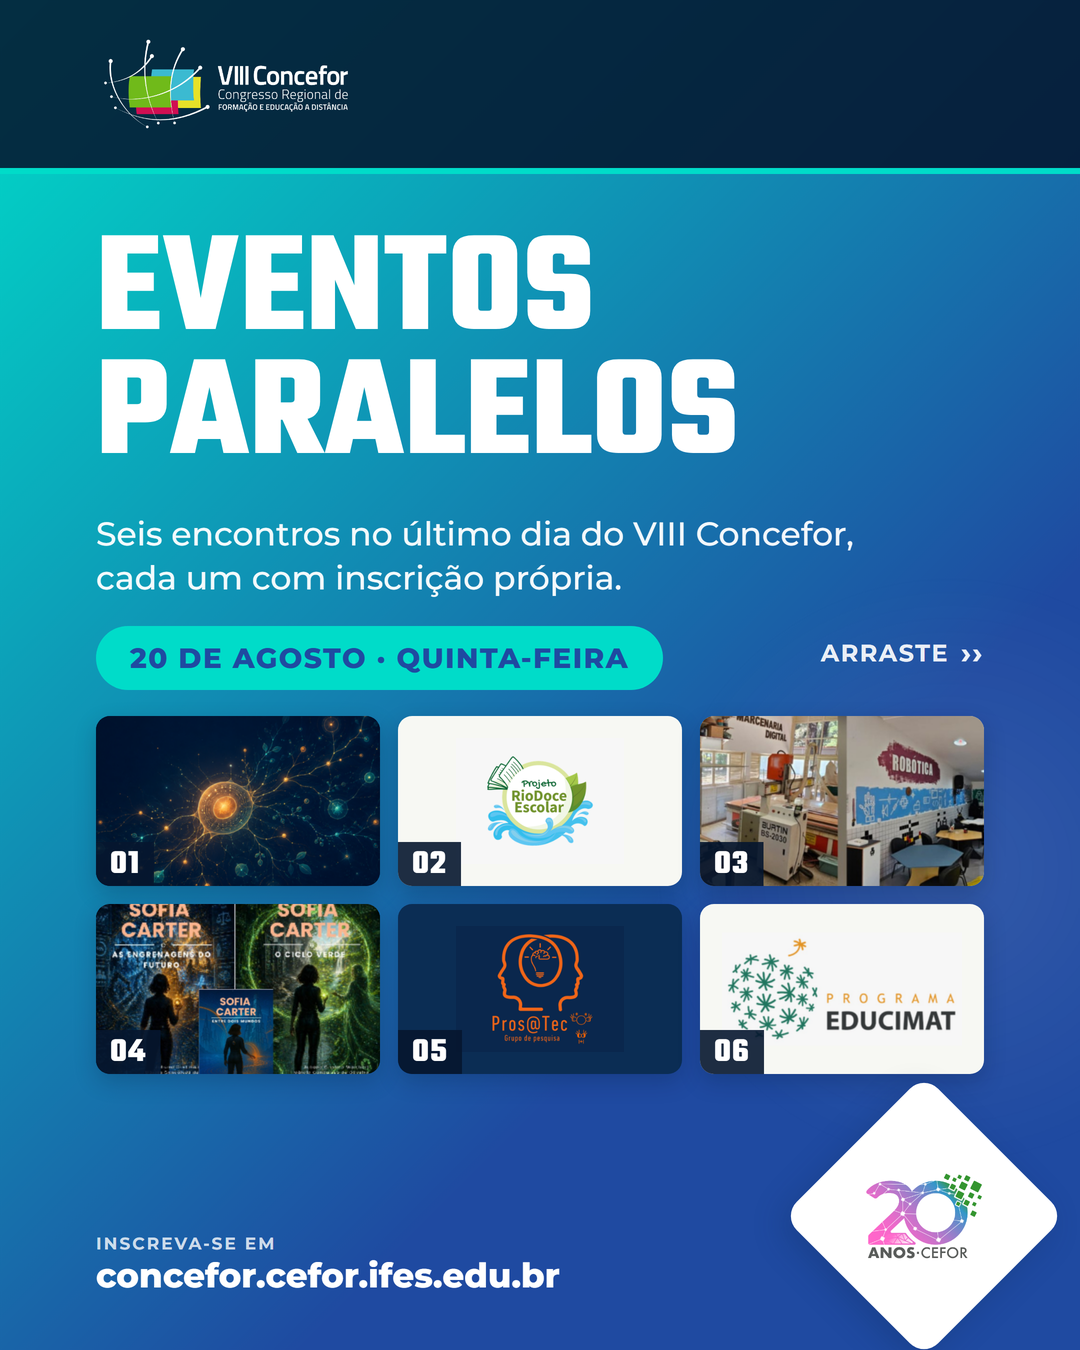
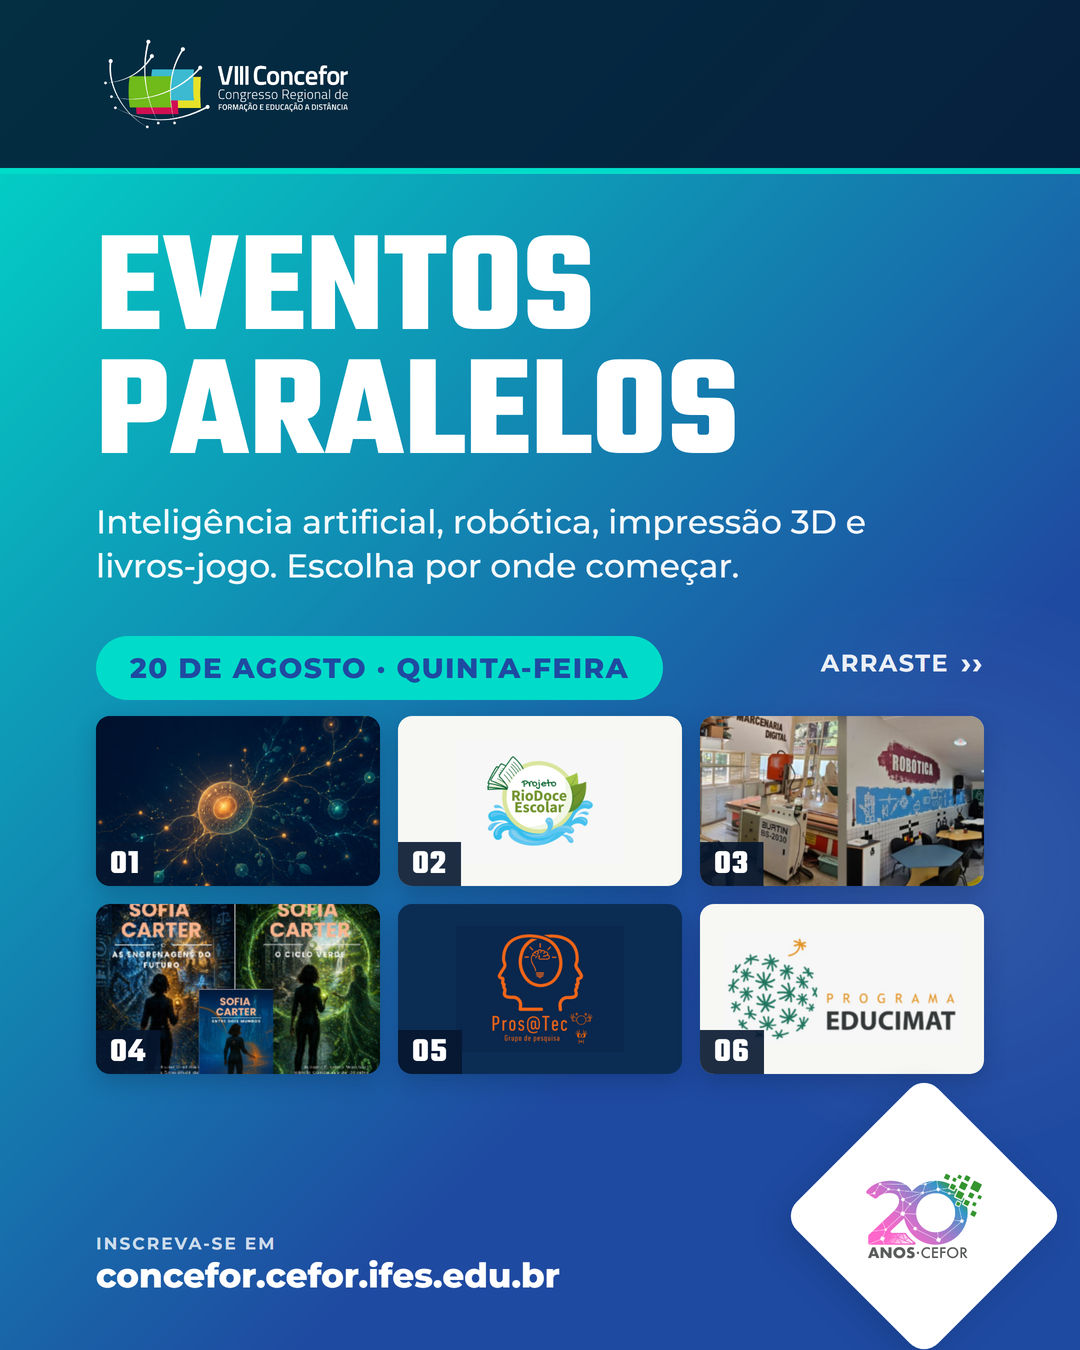
copy(eventos-paralelos): legenda e capa falam do que acontece, nao do formato
A capa dizia "seis encontros [...] cada um com inscricao propria" e a legenda
abria do mesmo jeito, seguida de uma lista 01 a 06. Os dois falavam de formato
e de processo, que nao interessam a quem le, e a lista tinha cara de sumario.

Capa: "Inteligencia artificial, robotica, impressao 3D e livros-jogo. Escolha
por onde comecar." A chamada ganhou folga de uma linha extra no layout, porque
a primeira tentativa quebrou em tres linhas e a ultima foi parar debaixo do
badge da data.

Legenda: abre com "no dia 20 o Cefor funciona em seis lugares ao mesmo tempo"
(literal: Laboratorio, Auditorio, Salas 1, 2 e 4, e Patio) e apresenta cada
encontro pela coisa concreta que acontece nele. A inscricao virou o que e, um
detalhe do fim.

Changed region(s): [[0.0917, 0.3733, 0.7944, 0.5289], [0.7639, 0.4667, 0.9167, 0.4978]]

diff --git a/comunicacao/producao/02-pre-evento/eventos-paralelos/_build_v1-com-imagem/capa.html b/comunicacao/producao/02-pre-evento/eventos-paralelos/_build_v1-com-imagem/capa.html
@@ -25,10 +25,12 @@ html,body{width:1080px;height:1350px;overflow:hidden;background:#000;}
   text-transform:uppercase;letter-spacing:.002em;}
 .titulo b{color:#06213f;font-weight:700;}
 
-.chamada{position:absolute;left:96px;top:512px;width:790px;
+/* 500 a 636 = 136px, ou seja, tres linhas de folga para uma chamada de duas.
+   Sem essa margem, uma linha a mais joga o texto por baixo do badge da data. */
+.chamada{position:absolute;left:96px;top:500px;width:790px;
   color:rgba(255,255,255,.95);font-weight:500;font-size:33px;line-height:1.34;}
 
-.data{position:absolute;left:96px;top:626px;padding:15px 34px;border-radius:999px;
+.data{position:absolute;left:96px;top:636px;padding:15px 34px;border-radius:999px;
   background:var(--turquesa);color:var(--azul);font-weight:800;font-size:28px;
   text-transform:uppercase;letter-spacing:.05em;}
 
@@ -51,7 +53,7 @@ html,body{width:1080px;height:1350px;overflow:hidden;background:#000;}
 /* na LINHA DA DATA, nao no rodape: o selo em losango tem 200x200 gpirado 45
    graus, entao seu bounding box invade a faixa de baixo a direita e cortava o
    fim da frase. Aqui ele fica livre e ainda equilibra o badge da esquerda. */
-.arraste{position:absolute;right:96px;top:638px;font-weight:700;font-size:24px;
+.arraste{position:absolute;right:96px;top:648px;font-weight:700;font-size:24px;
   letter-spacing:.06em;text-transform:uppercase;color:rgba(255,255,255,.92);
   display:flex;align-items:center;gap:12px;}
 .arraste span{font-size:30px;line-height:1;}
@@ -75,7 +77,7 @@ html,body{width:1080px;height:1350px;overflow:hidden;background:#000;}
   <div class="brand-rule"></div>
 
   <div class="titulo">Eventos<br>paralelos</div>
-  <div class="chamada">Seis encontros no último dia do VIII Concefor, cada um com inscrição própria.</div>
+  <div class="chamada">Inteligência artificial, robótica, impressão 3D e livros-jogo. Escolha por onde começar.</div>
   <div class="data">20 de agosto &middot; quinta-feira</div>
 
   <div class="grade"><div class="mini " style="--mini-bg:#071a35;--mini-fit:cover"><img src="../_build_v4/assets/events/01-ia-alem-do-chat.png" alt="IA além do chat: da célula ao organismo baseado em IA"><b>01</b></div><div class="mini is-contain" style="--mini-bg:#f7f8f3;--mini-fit:contain"><img src="../_build_v4/assets/events/02-ciencia-delas.png" alt="“Ciência delas” no Projeto Rio Doce Escolar"><b>02</b></div><div class="mini " style="--mini-bg:#d9e6e2;--mini-fit:cover"><img src="../_build_v4/assets/events/03-escola-de-inovacao.png" alt="Escola de Inovação: 6º ano de popularização de novas tecnologias digitais"><b>03</b></div><div class="mini " style="--mini-bg:#071a35;--mini-fit:cover"><img src="../_build_v4/assets/events/04-entre-dois-mundos.png" alt="Entre Dois Mundos: uma aventura para aprender IA"><b>04</b></div><div class="mini is-contain" style="--mini-bg:#0b2d54;--mini-fit:contain"><img src="../_build_v4/assets/events/05-workshop-prostec.png" alt="Workshop Pros@tec: Desafios da Educação em Computação e da Informática na Educação"><b>05</b></div><div class="mini is-contain" style="--mini-bg:#f7f8f3;--mini-fit:contain"><img src="assets/06-educimat-trim.png" alt="EDUCIMAT: 15 anos elaborando produtos, tecendo saberes e modificando vidas"><b>06</b></div></div>

diff --git a/comunicacao/kit-eventos-paralelos/index.html b/comunicacao/kit-eventos-paralelos/index.html
@@ -146,23 +146,22 @@
       </div>
       <img class="thumb" src="../producao/02-pre-evento/eventos-paralelos/cards/proposta-v1-com-imagem/2026-08-10_pre_capa-carrossel-eventos-paralelos.png" alt="Capa do carrossel">
     </div>
-    <pre class="txt" id="t-ig">Seis encontros acontecem ao mesmo tempo no dia 20 de agosto, o último dia do VIII Concefor. Cada um tem inscrição própria, e dá para escolher pelo que chega mais perto do seu trabalho.
+    <pre class="txt" id="t-ig">No dia 20 de agosto o Cefor funciona em seis lugares ao mesmo tempo, e você escolhe onde estar.
 
-01 IA além do chat. Oficina prática: você monta um espaço de trabalho que guarda o seu contexto e produz com você. Abrimos com o caso de um professor que levava uma semana para transformar aulas antigas e passou a levar meia hora. São 20 vagas.
+Tem oficina para montar do zero um espaço de trabalho com IA que guarda o seu contexto. Começamos com o caso de um professor que levava uma semana para transformar aulas antigas em aulas interativas e passou a levar meia hora.
 
-02 "Ciência delas" no Projeto Rio Doce Escolar. Gestoras, pesquisadoras, professoras e agentes comunitárias da bacia do Rio Doce contam a ciência que fazem na Rede de Educadores Ambientais.
+Tem impressão 3D, corte a laser, robótica e realidade virtual, com visita às estações da Escola de Inovação.
 
-03 Escola de Inovação. Seis anos levando impressão 3D, corte a laser, robótica e realidade virtual para a educação de Vitória, com visita às estações onde tudo acontece.
+Tem livro-jogo para ensinar inteligência artificial na educação básica, com a coleção Sofia Carter.
 
-04 Entre Dois Mundos. Alfabetização em Inteligência Artificial na educação básica, com a coleção de livros-jogo Sofia Carter e abordagem STEAM.
+Tem mesa com as gestoras, pesquisadoras, professoras e agentes comunitárias que fazem ciência na bacia do Rio Doce.
 
-05 Workshop Pros@tec. Pesquisadores apresentam respostas aos desafios da Educação em Computação apontados pela SBC, em rodas de conversa nos dois turnos.
+Tem roda de conversa sobre os desafios da Educação em Computação apontados pela SBC.
 
-06 Educimat. Os 15 anos do mestrado e doutorado profissional em Educação em Ciências e Matemática do Ifes, comemorados dentro do Concefor.
+E tem os 15 anos do Educimat, comemorados no pátio.
 
-Arraste para ver o horário, o local e a coordenação de cada encontro.
+Arraste para ver horário, local e coordenação de cada um. Os formulários estão reunidos em concefor.cefor.ifes.edu.br/eventos-paralelos
 
-Os seis formulários estão reunidos em concefor.cefor.ifes.edu.br/eventos-paralelos
 Inscrição no Concefor até 15/08, o principal congresso do Espírito Santo sobre Tecnologia e Educação a Distância: concefor.cefor.ifes.edu.br/inscricoes
 
 #Concefor #VIIIConcefor #Cefor20Anos #Cefor #Ifes #EaD</pre>

diff --git a/comunicacao/producao/02-pre-evento/eventos-paralelos/_build_v1-com-imagem/build_capa.py b/comunicacao/producao/02-pre-evento/eventos-paralelos/_build_v1-com-imagem/build_capa.py
@@ -30,8 +30,11 @@ BRAND_H = _base["BRAND_H"]
 LOGO_H = _base["LOGO_H"]
 
 TITULO = "Eventos<br>paralelos"
-CHAMADA = ("Seis encontros no último dia do VIII Concefor, "
-           "cada um com inscrição própria.")
+# A chamada anterior ("seis encontros [...] cada um com inscricao propria")
+# falava de formato e de processo, que nao interessam a quem le. Esta diz o que
+# a pessoa vai encontrar la, com as coisas mais concretas dos seis.
+CHAMADA = ("Inteligência artificial, robótica, impressão 3D e livros-jogo. "
+           "Escolha por onde começar.")  # 2 linhas: a caixa comporta ~50 caracteres por linha
 DATA = "20 de agosto &middot; quinta-feira"
 # curto de proposito: na linha da data, "Arraste para ver os seis" passava por
 # cima do badge "20 de agosto · quinta-feira". A seta dupla ja diz o gesto.
@@ -64,10 +67,12 @@ html,body{{width:1080px;height:1350px;overflow:hidden;background:#000;}}
   text-transform:uppercase;letter-spacing:.002em;}}
 .titulo b{{color:#06213f;font-weight:700;}}
 
-.chamada{{position:absolute;left:96px;top:512px;width:790px;
+/* 500 a 636 = 136px, ou seja, tres linhas de folga para uma chamada de duas.
+   Sem essa margem, uma linha a mais joga o texto por baixo do badge da data. */
+.chamada{{position:absolute;left:96px;top:500px;width:790px;
   color:rgba(255,255,255,.95);font-weight:500;font-size:33px;line-height:1.34;}}
 
-.data{{position:absolute;left:96px;top:626px;padding:15px 34px;border-radius:999px;
+.data{{position:absolute;left:96px;top:636px;padding:15px 34px;border-radius:999px;
   background:var(--turquesa);color:var(--azul);font-weight:800;font-size:28px;
   text-transform:uppercase;letter-spacing:.05em;}}
 
@@ -90,7 +95,7 @@ html,body{{width:1080px;height:1350px;overflow:hidden;background:#000;}}
 /* na LINHA DA DATA, nao no rodape: o selo em losango tem 200x200 gpirado 45
    graus, entao seu bounding box invade a faixa de baixo a direita e cortava o
    fim da frase. Aqui ele fica livre e ainda equilibra o badge da esquerda. */
-.arraste{{position:absolute;right:96px;top:638px;font-weight:700;font-size:24px;
+.arraste{{position:absolute;right:96px;top:648px;font-weight:700;font-size:24px;
   letter-spacing:.06em;text-transform:uppercase;color:rgba(255,255,255,.92);
   display:flex;align-items:center;gap:12px;}}
 .arraste span{{font-size:30px;line-height:1;}}

diff --git a/comunicacao/producao/02-pre-evento/eventos-paralelos/legendas.md b/comunicacao/producao/02-pre-evento/eventos-paralelos/legendas.md
@@ -22,28 +22,38 @@
 > Link não é clicável na legenda do Instagram, por isso a legenda manda para uma página só,
 > `concefor.cefor.ifes.edu.br/eventos-paralelos`, que reúne os seis formulários.
 
+> ✏ **Reescrita em 10/08.** A primeira versão abria com "seis encontros, cada um com inscrição
+> própria" e listava 01 a 06. Falava de **formato e de processo**, que não interessam a quem lê, e
+> a lista numerada tinha cara de sumário. Esta versão troca o eixo: diz **o que a pessoa vai fazer
+> lá**, com a coisa mais concreta de cada encontro. A inscrição virou o que ela é, um detalhe do
+> fim, não a manchete.
+
 ```
-Seis encontros acontecem ao mesmo tempo no dia 20 de agosto, o último dia do VIII Concefor. Cada um tem inscrição própria, e dá para escolher pelo que chega mais perto do seu trabalho.
+No dia 20 de agosto o Cefor funciona em seis lugares ao mesmo tempo, e você escolhe onde estar.
 
-01 IA além do chat. Oficina prática: você monta um espaço de trabalho que guarda o seu contexto e produz com você. Abrimos com o caso de um professor que levava uma semana para transformar aulas antigas e passou a levar meia hora. São 20 vagas.
+Tem oficina para montar do zero um espaço de trabalho com IA que guarda o seu contexto. Começamos com o caso de um professor que levava uma semana para transformar aulas antigas em aulas interativas e passou a levar meia hora.
 
-02 "Ciência delas" no Projeto Rio Doce Escolar. Gestoras, pesquisadoras, professoras e agentes comunitárias da bacia do Rio Doce contam a ciência que fazem na Rede de Educadores Ambientais.
+Tem impressão 3D, corte a laser, robótica e realidade virtual, com visita às estações da Escola de Inovação.
 
-03 Escola de Inovação. Seis anos levando impressão 3D, corte a laser, robótica e realidade virtual para a educação de Vitória, com visita às estações onde tudo acontece.
+Tem livro-jogo para ensinar inteligência artificial na educação básica, com a coleção Sofia Carter.
 
-04 Entre Dois Mundos. Alfabetização em Inteligência Artificial na educação básica, com a coleção de livros-jogo Sofia Carter e abordagem STEAM.
+Tem mesa com as gestoras, pesquisadoras, professoras e agentes comunitárias que fazem ciência na bacia do Rio Doce.
 
-05 Workshop Pros@tec. Pesquisadores apresentam respostas aos desafios da Educação em Computação apontados pela SBC, em rodas de conversa nos dois turnos.
+Tem roda de conversa sobre os desafios da Educação em Computação apontados pela SBC.
 
-06 Educimat. Os 15 anos do mestrado e doutorado profissional em Educação em Ciências e Matemática do Ifes, comemorados dentro do Concefor.
+E tem os 15 anos do Educimat, comemorados no pátio.
 
-Arraste para ver o horário, o local e a coordenação de cada encontro.
+Arraste para ver horário, local e coordenação de cada um. Os formulários estão reunidos em concefor.cefor.ifes.edu.br/eventos-paralelos
 
-Os seis formulários estão reunidos em concefor.cefor.ifes.edu.br/eventos-paralelos
 Inscrição no Concefor até 15/08, o principal congresso do Espírito Santo sobre Tecnologia e Educação a Distância: concefor.cefor.ifes.edu.br/inscricoes
 
 #Concefor #VIIIConcefor #Cefor20Anos #Cefor #Ifes #EaD
 ```
+
+> ℹ **"Seis lugares ao mesmo tempo" é literal**, não força de expressão: Laboratório de
+> Informática, Auditório, Sala 1, Sala 2, Sala 4 e Pátio.
+> **Texto da capa, na mesma direção:** *"Inteligência artificial, robótica, impressão 3D e
+> livros-jogo. Escolha por onde começar."*
 
 ### Alt text dos slides
 
